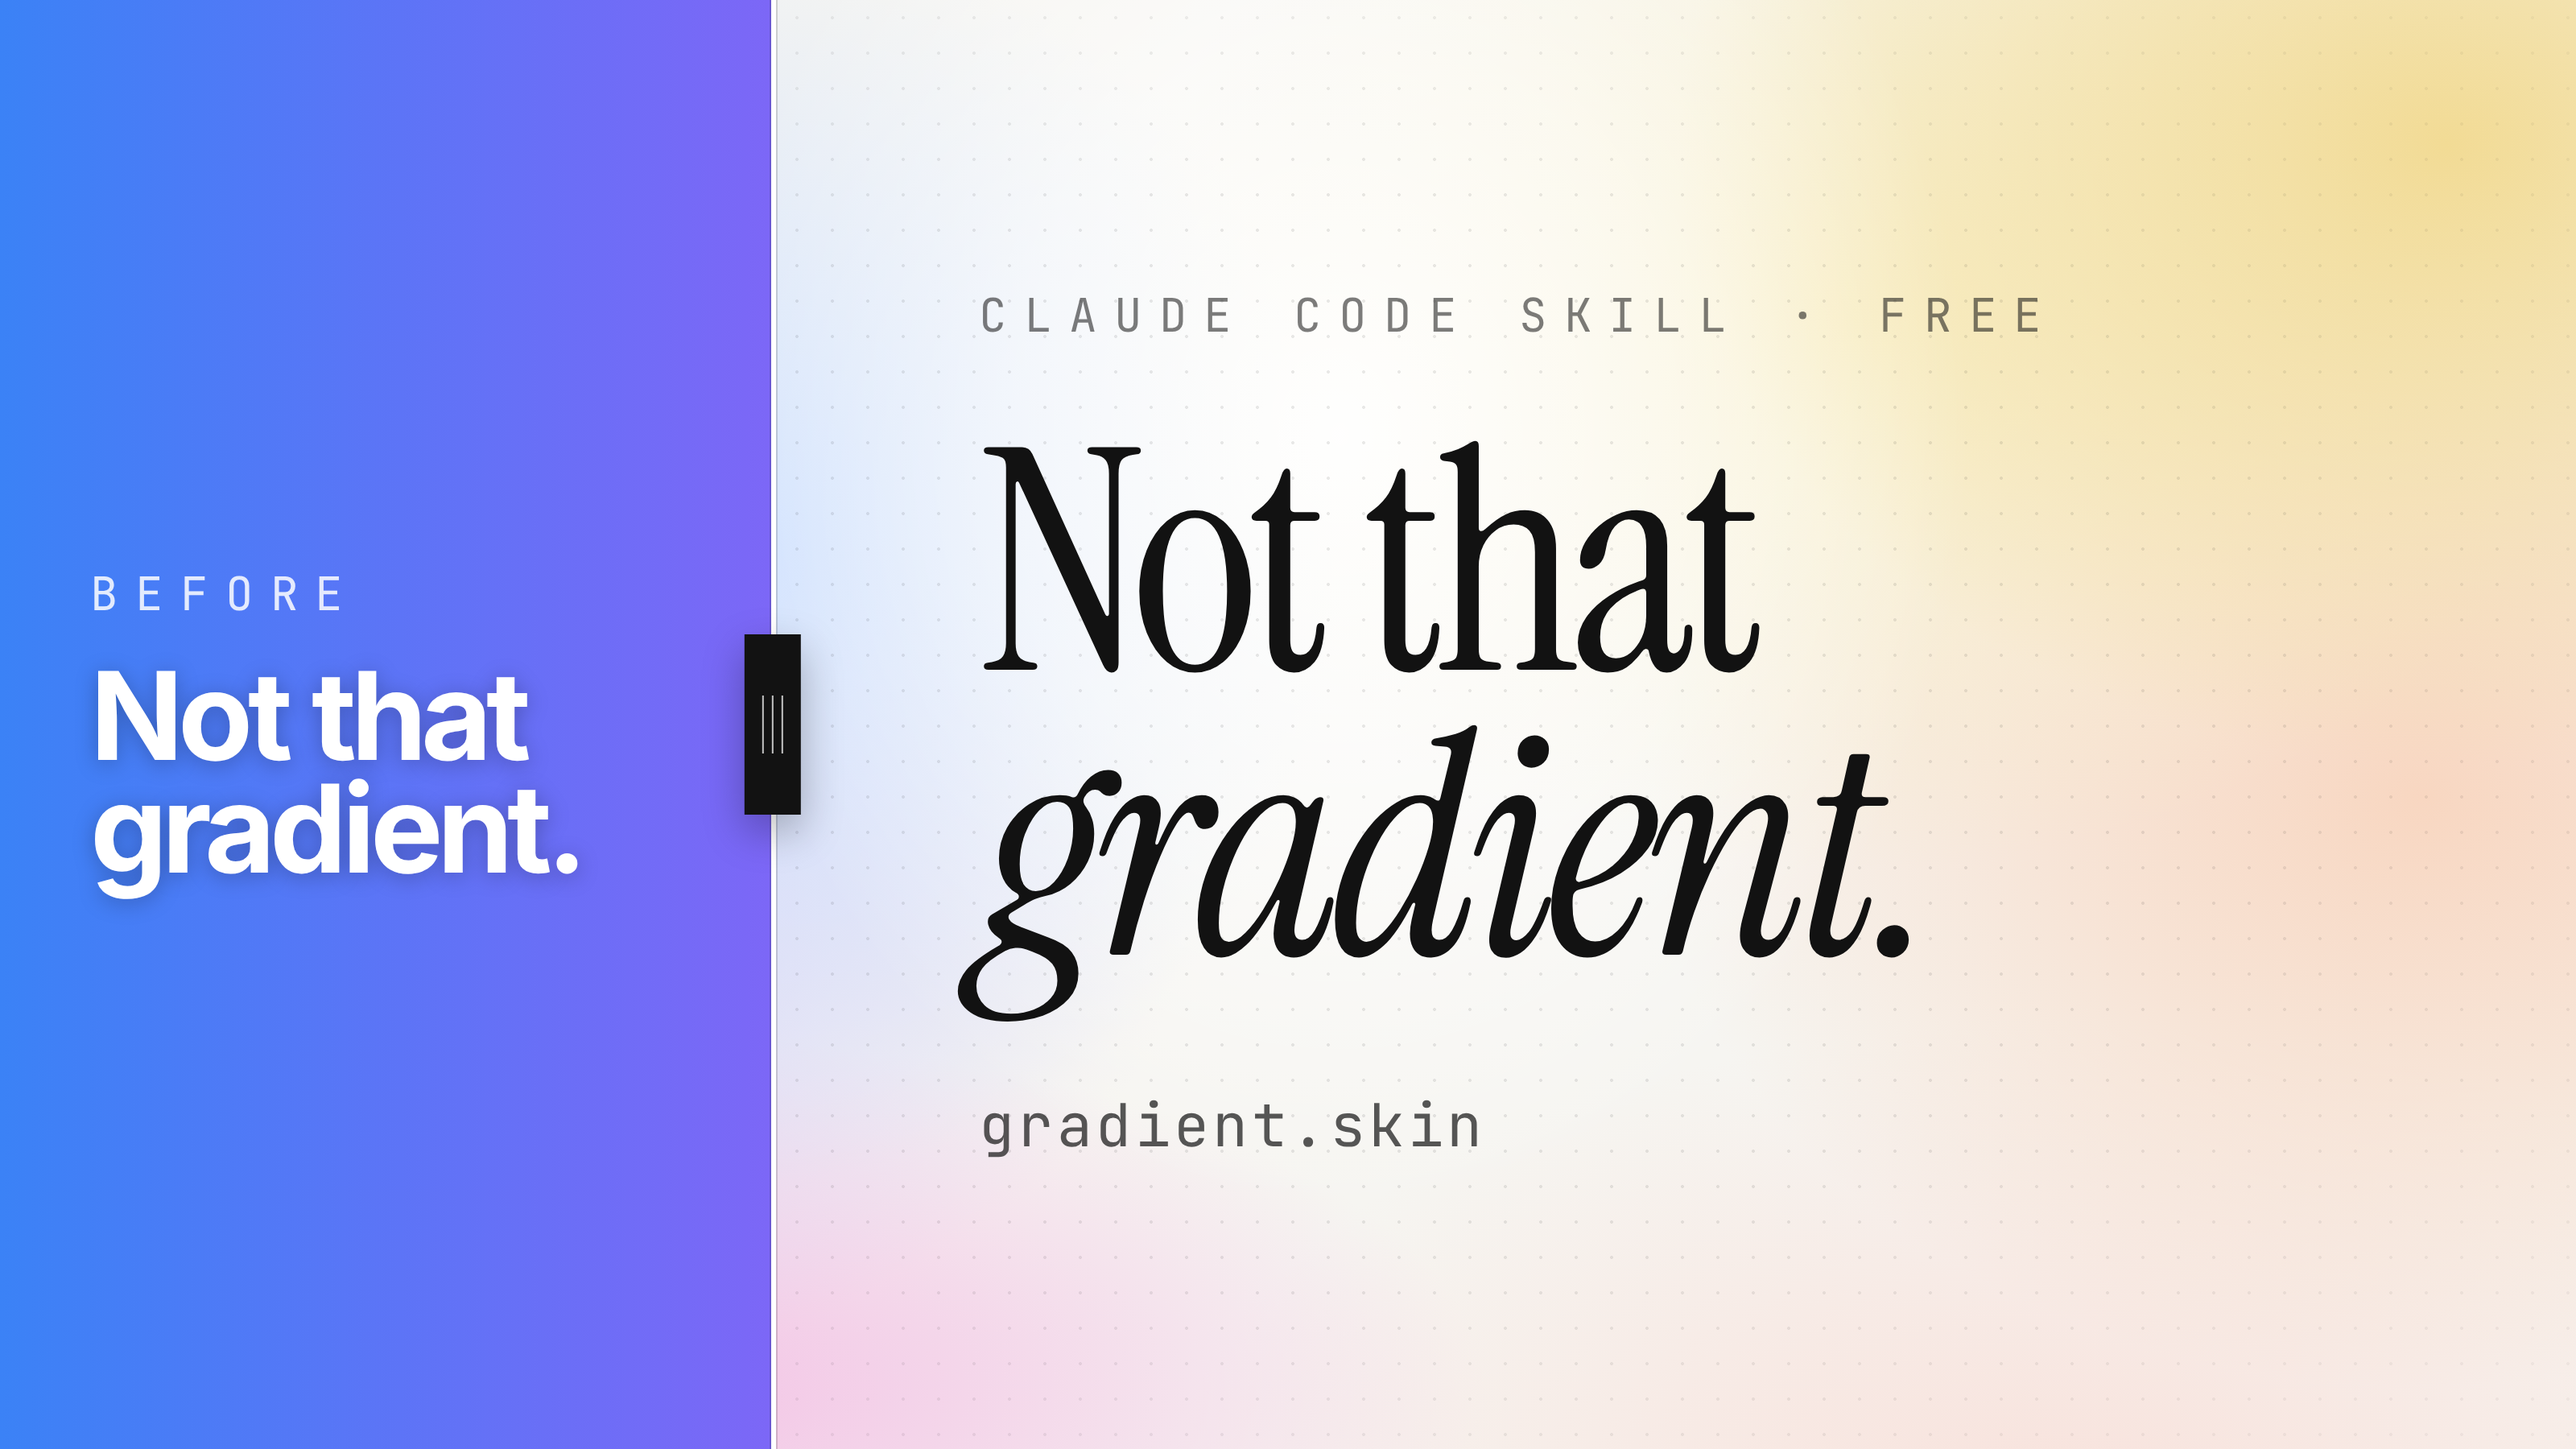
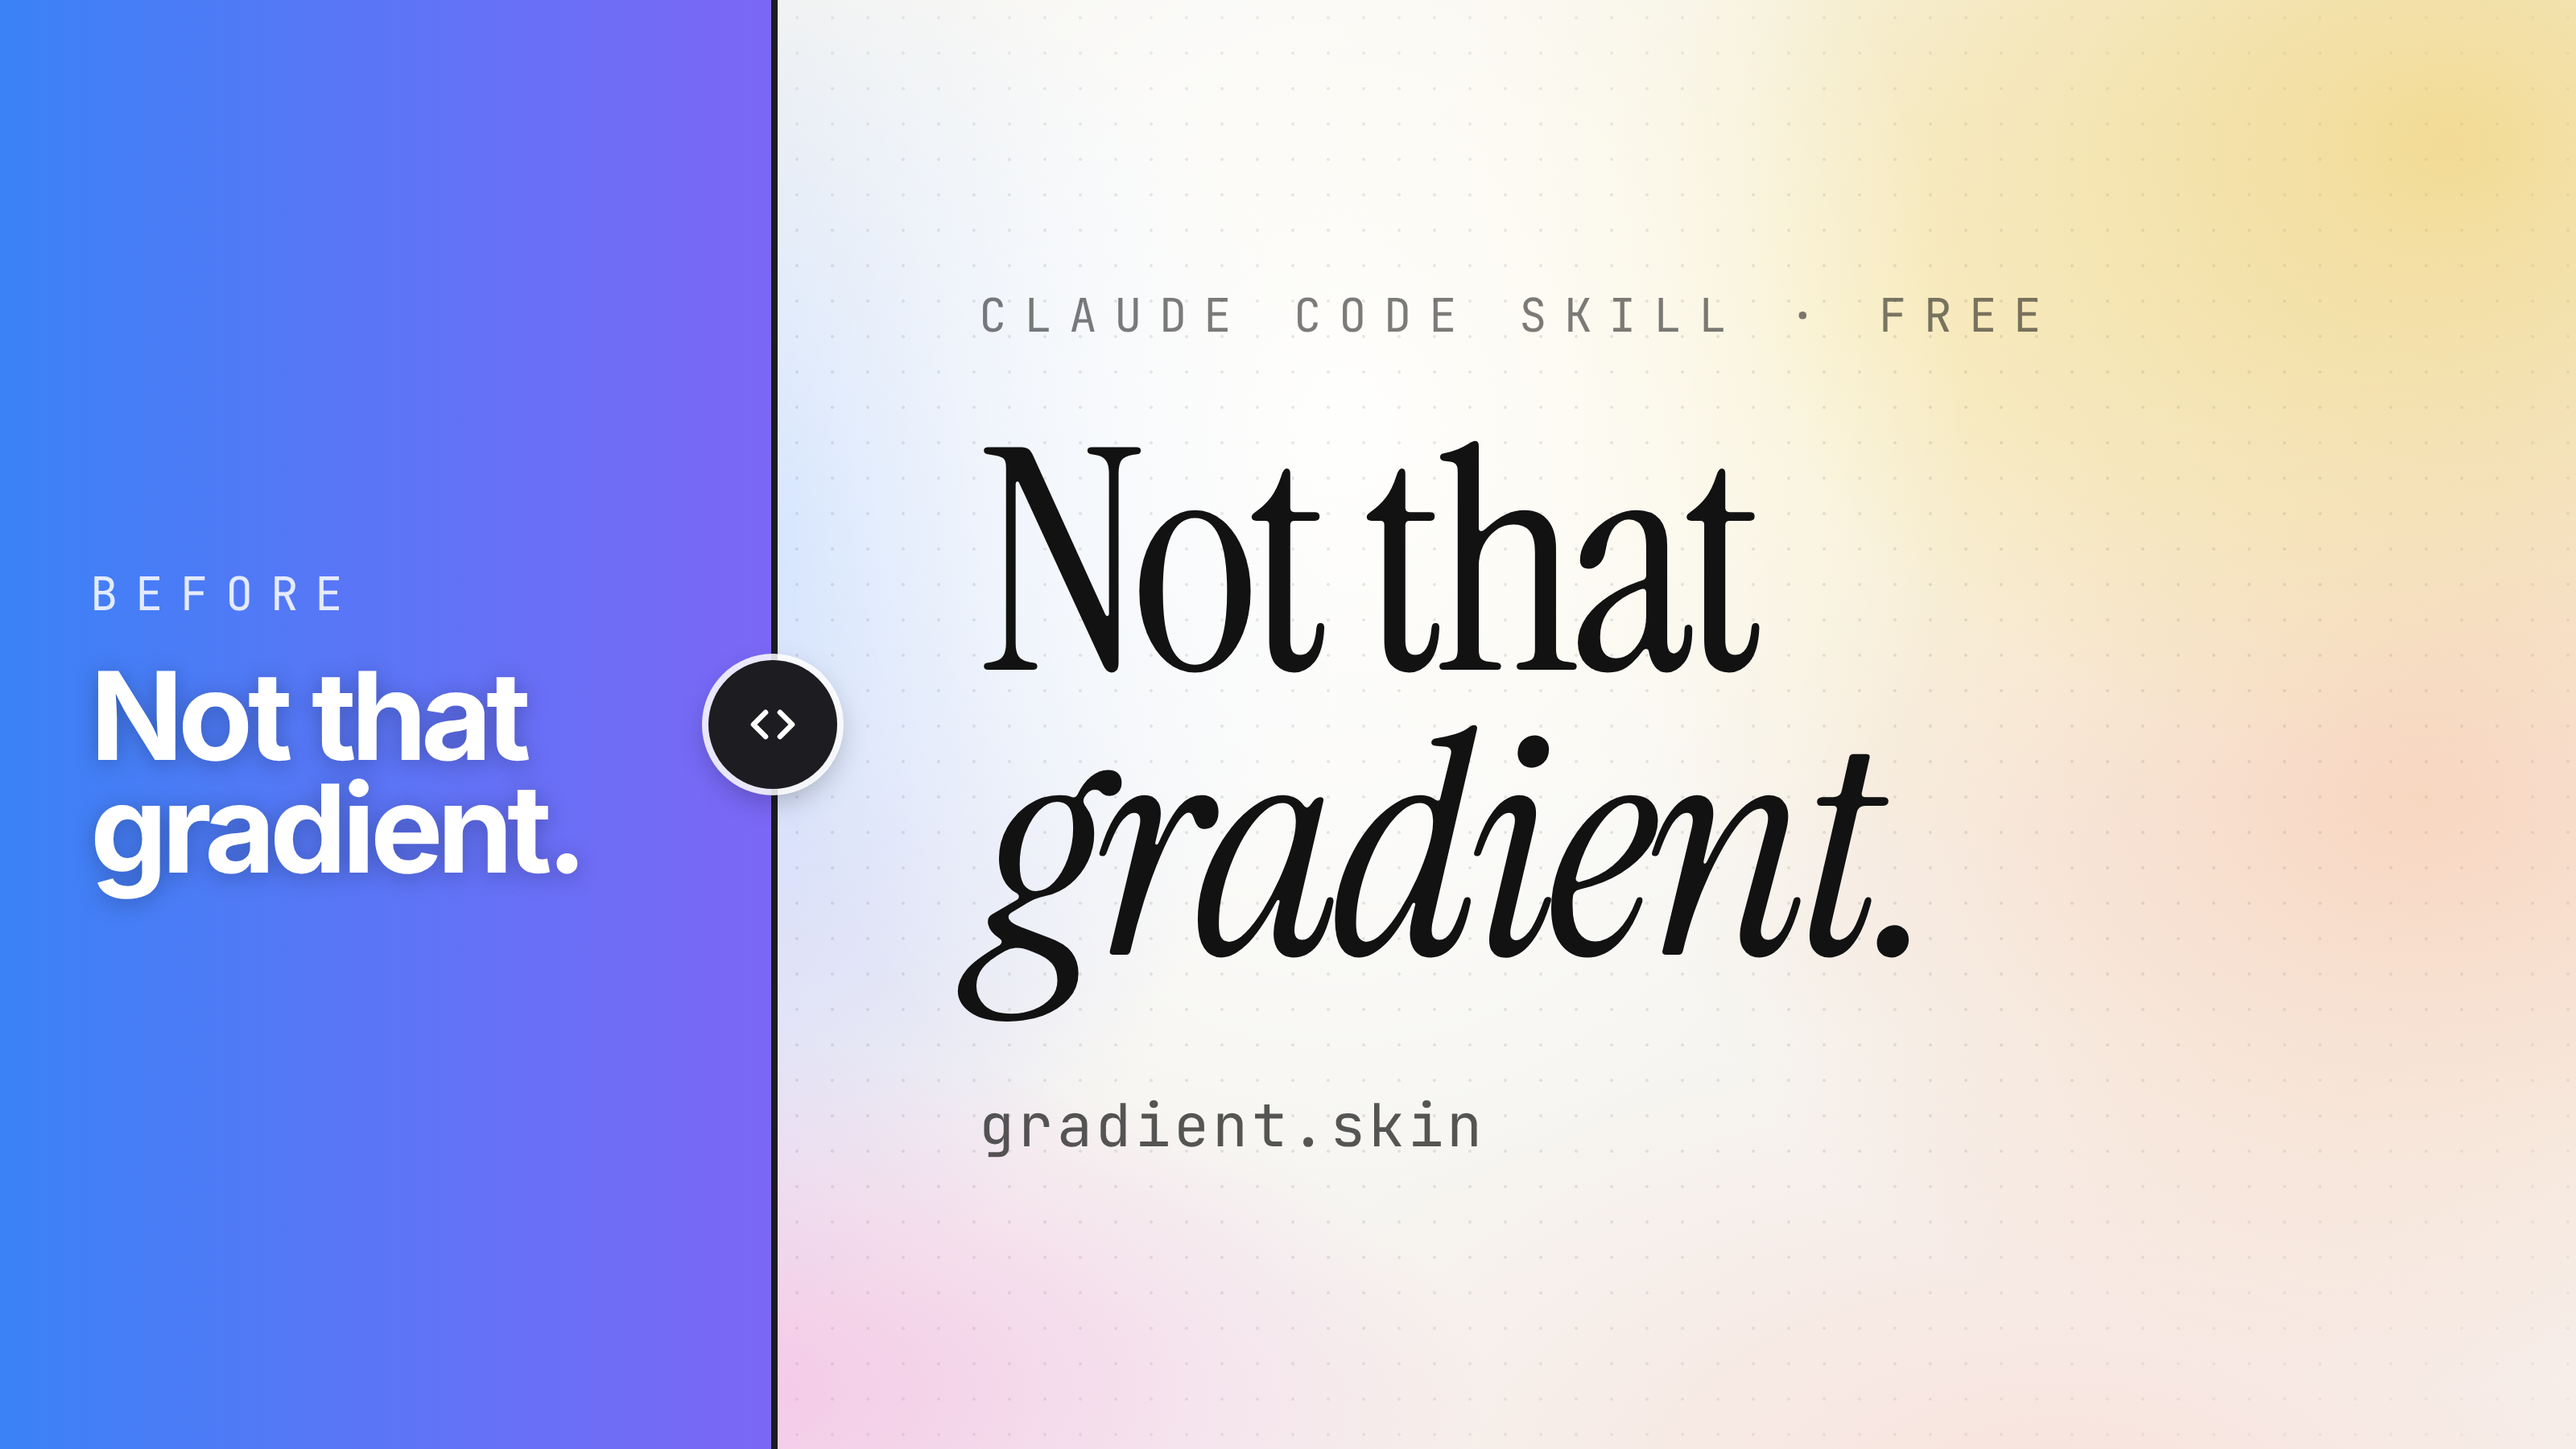
Slider knob: dark line, small dark circle with chevrons, edge to edge
Claude-Session: https://claude.ai/code/session_01Pj2DqLmp4zxdSxdQUmTHv8

Changed region(s): [[0.25, 0.4356, 0.3438, 0.5911]]

diff --git a/site/index.html b/site/index.html
@@ -80,16 +80,12 @@ h1{font-size:clamp(56px,7.6vw,128px);line-height:.92;letter-spacing:-.025em;marg
 .tag b{font-weight:inherit} .tag.l{left:22px;background:rgba(0,0,0,.28);color:#fff} .tag.r{right:22px;background:rgba(255,255,255,.6);color:#121212;backdrop-filter:blur(6px)}
 .hero[data-cut="0"] .tag.l{opacity:0} .hero[data-cut="100"] .tag.r{opacity:0}
 .grip{position:absolute;z-index:5;top:0;bottom:0;left:var(--cut,92%);width:0;cursor:ew-resize;touch-action:pan-y;outline:none}
-.grip::before{content:"";position:absolute;top:0;bottom:0;left:-1px;width:2px;background:#fff;box-shadow:0 0 0 1px rgba(0,0,0,.14)}
+.grip::before{content:"";position:absolute;top:0;bottom:0;left:-1px;width:2px;background:#1c1c21}
 .grip::after{content:"";position:absolute;top:0;bottom:0;left:-32px;width:64px}
-.grip i{position:absolute;top:50%;left:0;transform:translate(-50%,-50%);width:22px;height:68px;background:#121212;display:flex;align-items:center;justify-content:center;gap:3px;box-shadow:0 10px 26px rgba(0,0,0,.28);font-style:normal;transition:transform .25s,width .2s}
-.grip i::before,.grip i::after,.grip i span{content:"";display:block;width:1px;height:22px;background:rgba(255,255,255,.75)}
-.grip:hover i,.grip:focus-visible i{width:26px}
-.grip:focus-visible i{box-shadow:0 0 0 2px #fff,0 10px 26px rgba(0,0,0,.28)}
+.grip i{position:absolute;top:50%;left:0;transform:translate(-50%,-50%);width:40px;height:40px;border-radius:50%;background:#1c1c21;color:#fff;display:flex;align-items:center;justify-content:center;box-shadow:0 0 0 2px rgba(255,255,255,.85),0 6px 18px rgba(0,0,0,.28);font-style:normal;transition:transform .2s}
+.grip i svg{width:18px;height:18px;display:block}
+.grip:hover i,.grip:focus-visible i{transform:translate(-50%,-50%) scale(1.08)}
 .hero[data-cut="0"] .grip i{transform:translate(0,-50%)} .hero[data-cut="100"] .grip i{transform:translate(-100%,-50%)}
-.grip b{position:absolute;left:18px;top:calc(50% + 48px);font:500 10px "JetBrains Mono",monospace;letter-spacing:.3em;text-transform:uppercase;color:#121212;background:#fff;padding:6px 9px;white-space:nowrap;opacity:0;transition:opacity .3s;box-shadow:0 1px 0 rgba(0,0,0,.12)}
-.hero[data-cut="0"] .grip b{left:8px} .hero[data-cut="100"] .grip b{left:auto;right:8px}
-.hero.settled .grip b{opacity:1}
 @media (prefers-reduced-motion:reduce){.grip i{transition:none}}
 
 section.plain{max-width:1100px;margin:0 auto;padding:96px 6vw}
@@ -306,7 +302,7 @@ footer{text-align:center;padding:48px 6vw 64px;font-size:12px;opacity:.5} footer
     <div class="foot mono">Open source · MIT · gradient.skin</div>
   </div></section></div>
   <span class="tag mono l">Before</span><span class="tag mono r">After<b> · one prompt</b></span>
-  <div class="grip" role="slider" tabindex="0" aria-label="Compare the template gradient with gradient.skin" aria-valuemin="0" aria-valuemax="100" aria-valuenow="92"><i><span></span></i><b>drag</b></div>
+  <div class="grip" role="slider" tabindex="0" aria-label="Compare the template gradient with gradient.skin" aria-valuemin="0" aria-valuemax="100" aria-valuenow="92"><i><svg viewBox="0 0 24 24" fill="none" stroke="currentColor" stroke-width="2.2" stroke-linecap="round" stroke-linejoin="round"><path d="M9 7l-5 5 5 5M15 7l5 5-5 5"/></svg></i></div>
 </section>
 
 <section class="plain" id="palettes">

diff --git a/site/build.py b/site/build.py
@@ -70,16 +70,12 @@ h1{{font-size:clamp(56px,7.6vw,128px);line-height:.92;letter-spacing:-.025em;mar
 .tag b{{font-weight:inherit}} .tag.l{{left:22px;background:rgba(0,0,0,.28);color:#fff}} .tag.r{{right:22px;background:rgba(255,255,255,.6);color:#121212;backdrop-filter:blur(6px)}}
 .hero[data-cut="0"] .tag.l{{opacity:0}} .hero[data-cut="100"] .tag.r{{opacity:0}}
 .grip{{position:absolute;z-index:5;top:0;bottom:0;left:var(--cut,92%);width:0;cursor:ew-resize;touch-action:pan-y;outline:none}}
-.grip::before{{content:"";position:absolute;top:0;bottom:0;left:-1px;width:2px;background:#fff;box-shadow:0 0 0 1px rgba(0,0,0,.14)}}
+.grip::before{{content:"";position:absolute;top:0;bottom:0;left:-1px;width:2px;background:#1c1c21}}
 .grip::after{{content:"";position:absolute;top:0;bottom:0;left:-32px;width:64px}}
-.grip i{{position:absolute;top:50%;left:0;transform:translate(-50%,-50%);width:22px;height:68px;background:#121212;display:flex;align-items:center;justify-content:center;gap:3px;box-shadow:0 10px 26px rgba(0,0,0,.28);font-style:normal;transition:transform .25s,width .2s}}
-.grip i::before,.grip i::after,.grip i span{{content:"";display:block;width:1px;height:22px;background:rgba(255,255,255,.75)}}
-.grip:hover i,.grip:focus-visible i{{width:26px}}
-.grip:focus-visible i{{box-shadow:0 0 0 2px #fff,0 10px 26px rgba(0,0,0,.28)}}
+.grip i{{position:absolute;top:50%;left:0;transform:translate(-50%,-50%);width:40px;height:40px;border-radius:50%;background:#1c1c21;color:#fff;display:flex;align-items:center;justify-content:center;box-shadow:0 0 0 2px rgba(255,255,255,.85),0 6px 18px rgba(0,0,0,.28);font-style:normal;transition:transform .2s}}
+.grip i svg{{width:18px;height:18px;display:block}}
+.grip:hover i,.grip:focus-visible i{{transform:translate(-50%,-50%) scale(1.08)}}
 .hero[data-cut="0"] .grip i{{transform:translate(0,-50%)}} .hero[data-cut="100"] .grip i{{transform:translate(-100%,-50%)}}
-.grip b{{position:absolute;left:18px;top:calc(50% + 48px);font:500 10px "JetBrains Mono",monospace;letter-spacing:.3em;text-transform:uppercase;color:#121212;background:#fff;padding:6px 9px;white-space:nowrap;opacity:0;transition:opacity .3s;box-shadow:0 1px 0 rgba(0,0,0,.12)}}
-.hero[data-cut="0"] .grip b{{left:8px}} .hero[data-cut="100"] .grip b{{left:auto;right:8px}}
-.hero.settled .grip b{{opacity:1}}
 @media (prefers-reduced-motion:reduce){{.grip i{{transition:none}}}}
 
 section.plain{{max-width:1100px;margin:0 auto;padding:96px 6vw}}
@@ -121,7 +117,7 @@ footer{{text-align:center;padding:48px 6vw 64px;font-size:12px;opacity:.5}} foot
     <div class="foot mono">Open source · MIT · gradient.skin</div>
   </div></section></div>
   <span class="tag mono l">Before</span><span class="tag mono r">After<b> · one prompt</b></span>
-  <div class="grip" role="slider" tabindex="0" aria-label="Compare the template gradient with gradient.skin" aria-valuemin="0" aria-valuemax="100" aria-valuenow="92"><i><span></span></i><b>drag</b></div>
+  <div class="grip" role="slider" tabindex="0" aria-label="Compare the template gradient with gradient.skin" aria-valuemin="0" aria-valuemax="100" aria-valuenow="92"><i><svg viewBox="0 0 24 24" fill="none" stroke="currentColor" stroke-width="2.2" stroke-linecap="round" stroke-linejoin="round"><path d="M9 7l-5 5 5 5M15 7l5 5-5 5"/></svg></i></div>
 </section>
 
 <section class="plain" id="palettes">
